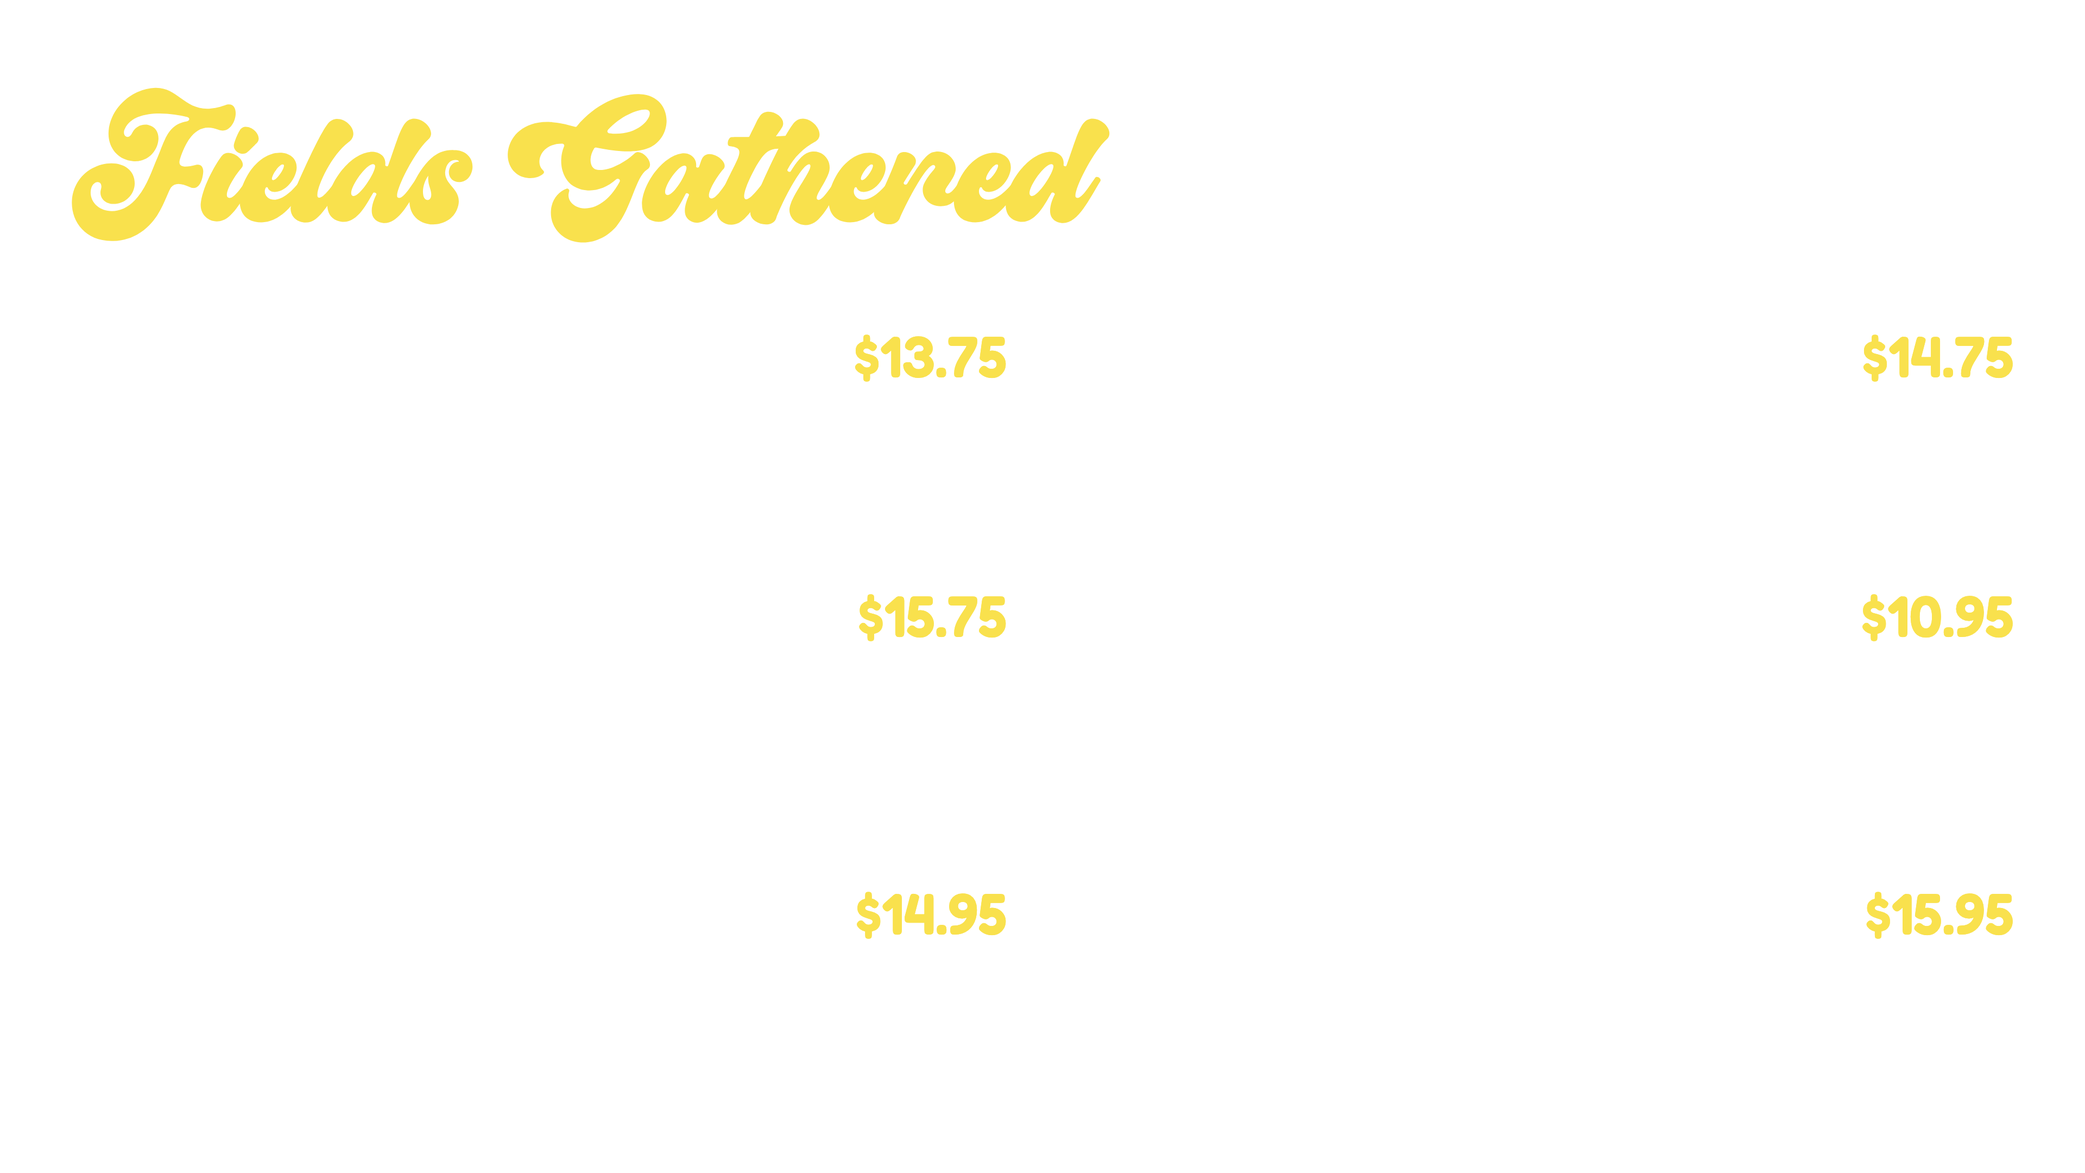
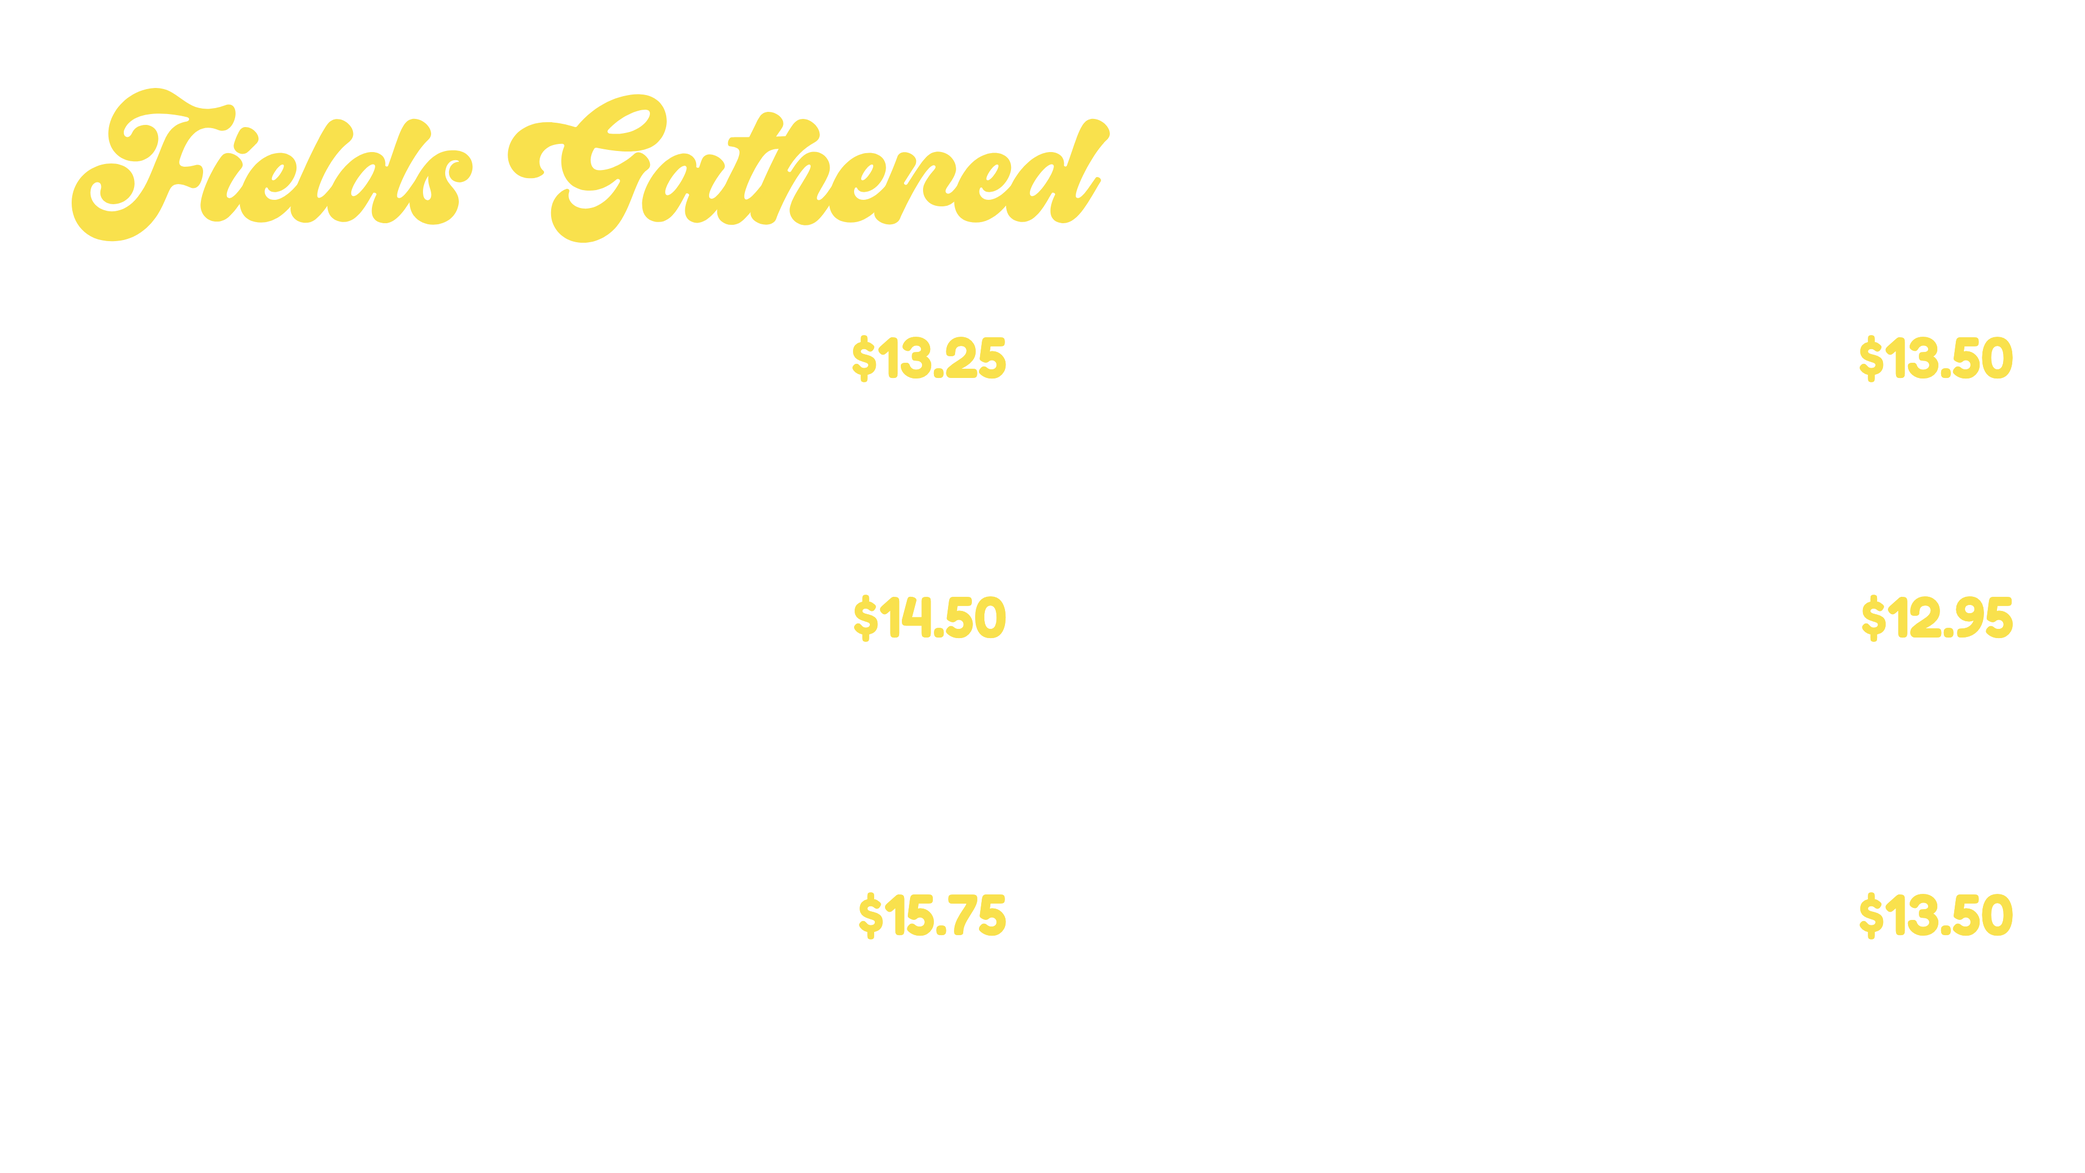
Grass D1 from Figma Signature (79:1462): new descriptions and prices, vector title
Prices: Strawberry Fields $13.25, Baja $13.50, High Plains $14.50, Coastal Caesar $12.95,
Blue Zone $15.75, Fields Notes $13.50. All six descriptions rewritten, broken where Figma
breaks them. "Fields Gathered" is now Figma's vector lettering. Within 1 px of Figma at 4K.
Canvas D1 updated; still and text layers re-rendered.

diff --git a/design/Grass-Board1.dc.html b/design/Grass-Board1.dc.html
@@ -17,9 +17,9 @@ body{margin:0;font-family:'Fredoka', sans-serif;background:#1d2716;color:#ffffff
 </style>
 </helmet>
 <div class="grass-bg" style="width: 3840px; height: 2160px; box-sizing: border-box; background-color: #1d2716; color: #ffffff; font-family: 'Fredoka', sans-serif; overflow: hidden; position: relative">
-<h2 style="position: absolute; left: 130px; top: 222.1px; width: 2142px; margin: 0; font-family: 'Midstar', 'Fredoka', cursive; font-weight: 400; font-size: 282px; line-height: 121.8px; color: #f9e14d; white-space: nowrap">Fields Gathered</h2>
+<img src="/_blob/d4c09801249a440e80340860ae861576" alt="Fields Gathered" style="position: absolute; left: 132.36px; top: 161.74px; width: 1911.19px; height: 284.856px; display: block">
 <p style="position: absolute; right: 131px; top: 188px; margin: 0; font-family: 'Heart of the Land', 'Fredoka', sans-serif; font-weight: 400; font-size: 106px; line-height: 120px; text-align: right; white-space: nowrap">OUR FAVORITE<br>PLACES, IN A BOWL</p>
-<div style="position: absolute; left: 130px; top: 619px; width: 3579px; display: grid; grid-template-columns: repeat(2, minmax(0, 1fr)); column-gap: 130px; row-gap: 156px"><div style="display: flex; flex-direction: column; gap: 36px"><div style="display: flex; align-items: flex-start; gap: 36px"><span style="font-family: 'Heart of the Land', 'Fredoka', sans-serif; font-weight: 400; font-size: 106px; line-height: 73.6px; white-space: nowrap">Strawberry Fields</span><span style="flex: 1 0 0; min-width: 1px; height: 76px"></span><span style="font-size: 106px; font-weight: 600; line-height: 73.6px; color: #f9e14d; white-space: nowrap">$13.75</span></div><p style="margin: 0; font-size: 58px; font-weight: 400; line-height: 70px; letter-spacing: -1px; white-space: nowrap; font-feature-settings: 'dlig' 1">Spinach, tri-color quinoa, citrus-herb charred chicken, sliced<br>strawberries, sliced almonds, avocado, feta cheese crumbles,<br>almond brittle, citrus-poppyseed vinaigrette</p></div><div style="display: flex; flex-direction: column; gap: 36px"><div style="display: flex; align-items: flex-start; gap: 36px"><span style="font-family: 'Heart of the Land', 'Fredoka', sans-serif; font-weight: 400; font-size: 106px; line-height: 73.6px; white-space: nowrap">Baja Bowl</span><span style="flex: 1 0 0; min-width: 1px; height: 76px"></span><span style="font-size: 106px; font-weight: 600; line-height: 73.6px; color: #f9e14d; white-space: nowrap">$14.75</span></div><p style="margin: 0; font-size: 58px; font-weight: 400; line-height: 70px; letter-spacing: -1px; white-space: nowrap; font-feature-settings: 'dlig' 1">Spinach + tri-color quinoa, citrus-herb chicken, charred corn, black<br>beans, avocado, sweet potato, pico, cilantro, cotija cakes, lime<br>wedge, chili-lime vinaigrette</p></div><div style="display: flex; flex-direction: column; gap: 36px"><div style="display: flex; align-items: flex-start; gap: 36px"><span style="font-family: 'Heart of the Land', 'Fredoka', sans-serif; font-weight: 400; font-size: 106px; line-height: 73.6px; white-space: nowrap">High Plains</span><span style="flex: 1 0 0; min-width: 1px; height: 76px"></span><span style="font-size: 106px; font-weight: 600; line-height: 73.6px; color: #f9e14d; white-space: nowrap">$15.75</span></div><p style="margin: 0; font-size: 58px; font-weight: 400; line-height: 70px; letter-spacing: -1px; white-space: nowrap; font-feature-settings: 'dlig' 1">Spinach + kale, blackened chicken, full-slice bacon, hardboiled eggs,<br>charred Colorado corn, cherry tomatoes, avocado, shredded<br>cheddar, focaccia croutons, Colorado ranch dressing, hot honey<br>drizzle, charred poblano chili</p></div><div style="display: flex; flex-direction: column; gap: 36px"><div style="display: flex; align-items: flex-start; gap: 36px"><span style="font-family: 'Heart of the Land', 'Fredoka', sans-serif; font-weight: 400; font-size: 106px; line-height: 73.6px; white-space: nowrap">Coastal Caesar</span><span style="flex: 1 0 0; min-width: 1px; height: 76px"></span><span style="font-size: 106px; font-weight: 600; line-height: 73.6px; color: #f9e14d; white-space: nowrap">$10.95</span></div><p style="margin: 0; font-size: 58px; font-weight: 400; line-height: 70px; letter-spacing: -1px; white-space: nowrap; font-feature-settings: 'dlig' 1">Shredded kale + romaine (or tri-colored quinoa), heirloom cherry<br>tomatoes, focaccia croutons, shaved parmesan, parmesan-pecorino<br>waffles, lemon wedge, vegan caesar dressing</p></div><div style="display: flex; flex-direction: column; gap: 36px"><div style="display: flex; align-items: flex-start; gap: 36px"><span style="font-family: 'Heart of the Land', 'Fredoka', sans-serif; font-weight: 400; font-size: 106px; line-height: 73.6px; white-space: nowrap">Blue Zone</span><span style="flex: 1 0 0; min-width: 1px; height: 76px"></span><span style="font-size: 106px; font-weight: 600; line-height: 73.6px; color: #f9e14d; white-space: nowrap">$14.95</span></div><p style="margin: 0; font-size: 58px; font-weight: 400; line-height: 70px; letter-spacing: -1px; white-space: nowrap; font-feature-settings: 'dlig' 1">Baby spinach + romaine hearts, miso-glazed salmon, sweet potato,<br>watermelon radish, carrot ribbons, avocado, pickled ginger,<br>mushroom hand roll, sesame-miso dressing</p></div><div style="display: flex; flex-direction: column; gap: 36px"><div style="display: flex; align-items: flex-start; gap: 36px"><span style="font-family: 'Heart of the Land', 'Fredoka', sans-serif; font-weight: 400; font-size: 106px; line-height: 73.6px; white-space: nowrap">Fields Notes</span><span style="flex: 1 0 0; min-width: 1px; height: 76px"></span><span style="font-size: 106px; font-weight: 600; line-height: 73.6px; color: #f9e14d; white-space: nowrap">$15.95</span></div><p style="margin: 0; font-size: 58px; font-weight: 400; line-height: 70px; letter-spacing: -2px; white-space: nowrap; font-feature-settings: 'dlig' 1">Kale + spinach (or tri-colored quinoa), black pepper steak, sweet<br>potato, grilled portobello, thinly sliced apples, blue cheese crumbles,<br>sliced almonds, dried cherries, honey-thyme dressing, hot honey drizzle</p></div></div>
+<div style="position: absolute; left: 130px; top: 619px; width: 3579px; display: grid; grid-template-columns: repeat(2, minmax(0, 1fr)); column-gap: 130px; row-gap: 156px"><div style="display: flex; flex-direction: column; gap: 36px"><div style="display: flex; align-items: flex-start; gap: 36px"><span style="font-family: 'Heart of the Land', 'Fredoka', sans-serif; font-weight: 400; font-size: 106px; line-height: 73.6px; white-space: nowrap">Strawberry Fields</span><span style="flex: 1 0 0; min-width: 1px; height: 76px"></span><span style="position: relative; top: 1px; font-size: 106px; font-weight: 600; line-height: 73.6px; color: #f9e14d; white-space: nowrap">$13.25</span></div><p style="margin: 0; font-size: 58px; font-weight: 400; line-height: 70px; letter-spacing: -1px; white-space: nowrap; font-feature-settings: 'dlig' 1">Spinach, tri-color quinoa, citrus-herb char chicken, sliced<br>strawberries, walnuts, avocado, crumbled feta, almond brittle<br>pieces, citrus-poppyseed vinaigrette</p></div><div style="display: flex; flex-direction: column; gap: 36px"><div style="display: flex; align-items: flex-start; gap: 36px"><span style="font-family: 'Heart of the Land', 'Fredoka', sans-serif; font-weight: 400; font-size: 106px; line-height: 73.6px; white-space: nowrap">Baja Bowl</span><span style="flex: 1 0 0; min-width: 1px; height: 76px"></span><span style="position: relative; top: 1px; font-size: 106px; font-weight: 600; line-height: 73.6px; color: #f9e14d; white-space: nowrap">$13.50</span></div><p style="margin: 0; font-size: 58px; font-weight: 400; line-height: 70px; letter-spacing: -1px; white-space: nowrap; font-feature-settings: 'dlig' 1">Spinach, citrus-herb char chicken, charred corn, black beans,<br>avocado, roasted sweet potato, house-made pico de gallo, crispy<br>cotija waffles, chili-lime vinaigrette, fresh lime wedge</p></div><div style="display: flex; flex-direction: column; gap: 36px"><div style="display: flex; align-items: flex-start; gap: 36px"><span style="font-family: 'Heart of the Land', 'Fredoka', sans-serif; font-weight: 400; font-size: 106px; line-height: 73.6px; white-space: nowrap">High Plains</span><span style="flex: 1 0 0; min-width: 1px; height: 76px"></span><span style="position: relative; top: 1px; font-size: 106px; font-weight: 600; line-height: 73.6px; color: #f9e14d; white-space: nowrap">$14.50</span></div><p style="margin: 0; font-size: 58px; font-weight: 400; line-height: 70px; letter-spacing: -1px; white-space: nowrap; font-feature-settings: 'dlig' 1">Spinach and kale, blackened chicken, applewood bacon, sliced<br>hardboiled egg, charred corn, tri-color cherry tomatoes, avocado,<br>grilled poblano, sourdough focaccia croutons, Colorado ranch, hot<br>honey drizzle</p></div><div style="display: flex; flex-direction: column; gap: 36px"><div style="display: flex; align-items: flex-start; gap: 36px"><span style="font-family: 'Heart of the Land', 'Fredoka', sans-serif; font-weight: 400; font-size: 106px; line-height: 73.6px; white-space: nowrap">Coastal Caesar</span><span style="flex: 1 0 0; min-width: 1px; height: 76px"></span><span style="position: relative; top: 1px; font-size: 106px; font-weight: 600; line-height: 73.6px; color: #f9e14d; white-space: nowrap">$12.95</span></div><p style="margin: 0; font-size: 58px; font-weight: 400; line-height: 70px; letter-spacing: -1px; white-space: nowrap; font-feature-settings: 'dlig' 1">Shredded kale + romaine hearts, blackened chicken, tri-color cherry<br>tomatoes, sourdough focaccia croutons, shaved parmesan, vegan<br>caesar dressing, fresh lemon wedge</p></div><div style="display: flex; flex-direction: column; gap: 36px"><div style="display: flex; align-items: flex-start; gap: 36px"><span style="font-family: 'Heart of the Land', 'Fredoka', sans-serif; font-weight: 400; font-size: 106px; line-height: 73.6px; white-space: nowrap">Blue Zone</span><span style="flex: 1 0 0; min-width: 1px; height: 76px"></span><span style="position: relative; top: 1px; font-size: 106px; font-weight: 600; line-height: 73.6px; color: #f9e14d; white-space: nowrap">$15.75</span></div><p style="margin: 0; font-size: 58px; font-weight: 400; line-height: 70px; letter-spacing: -1px; white-space: nowrap; font-feature-settings: 'dlig' 1">Spinach + romaine hearts, miso-glazed salmon, roasted sweet<br>potato, watermelon radish, carrot ribbons, toasted nori puffs,<br>avocado, edamame, sesame-miso dressing</p></div><div style="display: flex; flex-direction: column; gap: 36px"><div style="display: flex; align-items: flex-start; gap: 36px"><span style="font-family: 'Heart of the Land', 'Fredoka', sans-serif; font-weight: 400; font-size: 106px; line-height: 73.6px; white-space: nowrap">Fields Notes</span><span style="flex: 1 0 0; min-width: 1px; height: 76px"></span><span style="position: relative; top: 1px; font-size: 106px; font-weight: 600; line-height: 73.6px; color: #f9e14d; white-space: nowrap">$13.50</span></div><p style="margin: 0; font-size: 58px; font-weight: 400; line-height: 70px; letter-spacing: -2px; white-space: nowrap; font-feature-settings: 'dlig' 1">Kale + spinach, roasted sweet potato, roasted broccoli, mixed<br>mushrooms, sliced apple, blue cheese crumbles, sliced almonds, honey-<br>thyme dressing, hot honey drizzle</p></div></div>
 </div>
 </x-dc>
 <script type="text/x-dc" data-dc-script data-props='{"$preview":{"width":3840,"height":2160}}'>

diff --git a/assets/boards/versions.js b/assets/boards/versions.js
@@ -26,10 +26,10 @@ window.BOARD_VERSIONS = {
   "grass/build.png": "0177213130",
   "grass/motion-screen.mp4": "09b4be509d",
   "grass/motion.mp4": "4100e164d4",
-  "grass/salads-screen.png": "9a91fb78af",
-  "grass/salads-text-screen.png": "12af62e9c9",
-  "grass/salads-text.png": "96b5c5482c",
-  "grass/salads.png": "825b05b9e7",
+  "grass/salads-screen.png": "828f2d80fe",
+  "grass/salads-text-screen.png": "59bcf34eb2",
+  "grass/salads-text.png": "4d6e704645",
+  "grass/salads.png": "516b59807e",
   "grass/span-screen.mp4": "bd1e26862b",
   "grass/span.mp4": "ae4ff41c52",
   "sunshine/beverages-screen.png": "64e04ae2e8",

diff --git a/index.html b/index.html
@@ -11,7 +11,7 @@
 <body class="page-scene">
 <main id="scene" class="scene" aria-label="Menu boards in store"></main>
 <p class="rotate-hint">Turn your phone sideways for a closer look</p>
-<script src="assets/boards/versions.js?v=4641324109"></script>
+<script src="assets/boards/versions.js?v=c4d92c44cd"></script>
 <script src="js/config.js?v=d419142068"></script>
 <script src="js/common.js?v=19c2f4a3bf"></script>
 <script src="js/scene.js?v=85c7880aa2"></script>

diff --git a/gallery.html b/gallery.html
@@ -16,7 +16,7 @@
   <nav aria-label="Colorways and boards"><ol id="toc" class="toc"></ol></nav>
 </aside>
 <main id="doc" class="doc"></main>
-<script src="assets/boards/versions.js?v=4641324109"></script>
+<script src="assets/boards/versions.js?v=c4d92c44cd"></script>
 <script src="js/config.js?v=d419142068"></script>
 <script src="js/common.js?v=19c2f4a3bf"></script>
 <script src="js/gallery.js?v=1659b3a1e8"></script>

diff --git a/tools/build-grass-latest.py b/tools/build-grass-latest.py
@@ -1,5 +1,5 @@
 # Builds the Grass artboards (Grass-Board1/2/3.dc.html) from Figma's "LATEST BOARDS" page
-# (frames 118:6885 Signature "Fields Gathered", 119:8445 "Build Your Own - NEW" Field Trip,
+# (frames 79:1462 Signature "Fields Gathered", 119:8445 "Build Your Own - NEW" Field Trip,
 # 118:7207 Beverages "Greens / Grains / Refreshers"). Positions and sizes are Figma's.
 # Board 2's lettering and Board 3's titles are Figma's vector exports in design/assets/field-trip/.
 #
@@ -23,7 +23,7 @@ PHOTO = {'salads': '0695e19f2e566c2e77d4f26eb2678687', 'build': '2a611a6d12b65f1
 C = dict(name='Option D', bg=FOREST if FLAT else '#1d2716', ink=WHITE, acc=SUN, pill=SUN, pillink=FOREST,
          logo=None, **({} if FLAT else {'photo': PHOTO}))
 SVG = {  # canvas blob ids; design/manifest.json maps them to design/assets/field-trip/<name>.svg
-    'path83': 'e8e5569f9b638941f0e20ddb220637fa', 'step1': '043eb4097ea4fbbed468e78b36cc57d0',
+    'fields-gathered': 'd4c09801249a440e80340860ae861576', 'path83': 'e8e5569f9b638941f0e20ddb220637fa', 'step1': '043eb4097ea4fbbed468e78b36cc57d0',
     'step2': 'b92ff74f402cb85a646d44c6ceefe775', 'step3': '1930219e5e916519dba999c597027e06',
     'step4': '82acaa3b98e91ade47c420b69f10c778', 'pick-your-field-2': '8647c1e19b696e6485f31781ef9752ea',
     'start-with-2': '440895a9671bd08cc77240a45189ed86', 'harvest-six-2': '4202076a8f8917de7b9c51e698782702',
@@ -53,21 +53,20 @@ def signature():
                 f'<div style="display: flex; align-items: flex-start; gap: 36px">'
                 f'<span style="{HOTL}; font-size: 106px; line-height: 73.6px; white-space: nowrap">{name}</span>'
                 f'<span style="flex: 1 0 0; min-width: 1px; height: 76px"></span>'
-                f'<span style="font-size: 106px; font-weight: 600; line-height: 73.6px; color: {SUN}; white-space: nowrap">{price}</span></div>'
+                f'<span style="position: relative; top: 1px; font-size: 106px; font-weight: 600; line-height: 73.6px; color: {SUN}; white-space: nowrap">{price}</span></div>'
                 f'<p style="margin: 0; font-size: 58px; font-weight: 400; line-height: 70px; letter-spacing: {tracking}px; white-space: nowrap; font-feature-settings: \'dlig\' 1">'
                 + '<br>'.join(desc) + '</p></div>')
-    b = (f'<h2 style="position: absolute; left: 130px; top: {283 - 60.9:g}px; width: 2142px; margin: 0; {MID}; font-size: 282px; '
-         f'line-height: 121.8px; color: {SUN}; white-space: nowrap">Fields Gathered</h2>\n')
+    b = svg('fields-gathered', 132.36, 161.74, 1911.191, 284.856, alt='Fields Gathered')
     b += (f'<p style="position: absolute; right: {W - 3709}px; top: 188px; margin: 0; {HOTL}; font-size: 106px; line-height: 120px; '
           f'text-align: right; white-space: nowrap">OUR FAVORITE<br>PLACES, IN A BOWL</p>\n')
     b += ('<div style="position: absolute; left: 130px; top: 619px; width: 3579px; display: grid; '
           'grid-template-columns: repeat(2, minmax(0, 1fr)); column-gap: 130px; row-gap: 156px">')
-    b += item('Strawberry Fields', '$13.75', ['Spinach, tri-color quinoa, citrus-herb charred chicken, sliced', 'strawberries, sliced almonds, avocado, feta cheese crumbles,', 'almond brittle, citrus-poppyseed vinaigrette'])
-    b += item('Baja Bowl', '$14.75', ['Spinach + tri-color quinoa, citrus-herb chicken, charred corn, black', 'beans, avocado, sweet potato, pico, cilantro, cotija cakes, lime', 'wedge, chili-lime vinaigrette'])
-    b += item('High Plains', '$15.75', ['Spinach + kale, blackened chicken, full-slice bacon, hardboiled eggs,', 'charred Colorado corn, cherry tomatoes, avocado, shredded', 'cheddar, focaccia croutons, Colorado ranch dressing, hot honey', 'drizzle, charred poblano chili'])
-    b += item('Coastal Caesar', '$10.95', ['Shredded kale + romaine (or tri-colored quinoa), heirloom cherry', 'tomatoes, focaccia croutons, shaved parmesan, parmesan-pecorino', 'waffles, lemon wedge, vegan caesar dressing'])
-    b += item('Blue Zone', '$14.95', ['Baby spinach + romaine hearts, miso-glazed salmon, sweet potato,', 'watermelon radish, carrot ribbons, avocado, pickled ginger,', 'mushroom hand roll, sesame-miso dressing'])
-    b += item('Fields Notes', '$15.95', ['Kale + spinach (or tri-colored quinoa), black pepper steak, sweet', 'potato, grilled portobello, thinly sliced apples, blue cheese crumbles,', 'sliced almonds, dried cherries, honey-thyme dressing, hot honey drizzle'], tracking=-2)
+    b += item('Strawberry Fields', '$13.25', ['Spinach, tri-color quinoa, citrus-herb char chicken, sliced', 'strawberries, walnuts, avocado, crumbled feta, almond brittle', 'pieces, citrus-poppyseed vinaigrette'])
+    b += item('Baja Bowl', '$13.50', ['Spinach, citrus-herb char chicken, charred corn, black beans,', 'avocado, roasted sweet potato, house-made pico de gallo, crispy', 'cotija waffles, chili-lime vinaigrette, fresh lime wedge'])
+    b += item('High Plains', '$14.50', ['Spinach and kale, blackened chicken, applewood bacon, sliced', 'hardboiled egg, charred corn, tri-color cherry tomatoes, avocado,', 'grilled poblano, sourdough focaccia croutons, Colorado ranch, hot', 'honey drizzle'])
+    b += item('Coastal Caesar', '$12.95', ['Shredded kale + romaine hearts, blackened chicken, tri-color cherry', 'tomatoes, sourdough focaccia croutons, shaved parmesan, vegan', 'caesar dressing, fresh lemon wedge'])
+    b += item('Blue Zone', '$15.75', ['Spinach + romaine hearts, miso-glazed salmon, roasted sweet', 'potato, watermelon radish, carrot ribbons, toasted nori puffs,', 'avocado, edamame, sesame-miso dressing'])
+    b += item('Fields Notes', '$13.50', ['Kale + spinach, roasted sweet potato, roasted broccoli, mixed', 'mushrooms, sliced apple, blue cheese crumbles, sliced almonds, honey-', 'thyme dressing, hot honey drizzle'], tracking=-2)
     return b + '</div>\n'
 
 # ------------------------------------------------------------------ Board 2: Build your Field Trip
